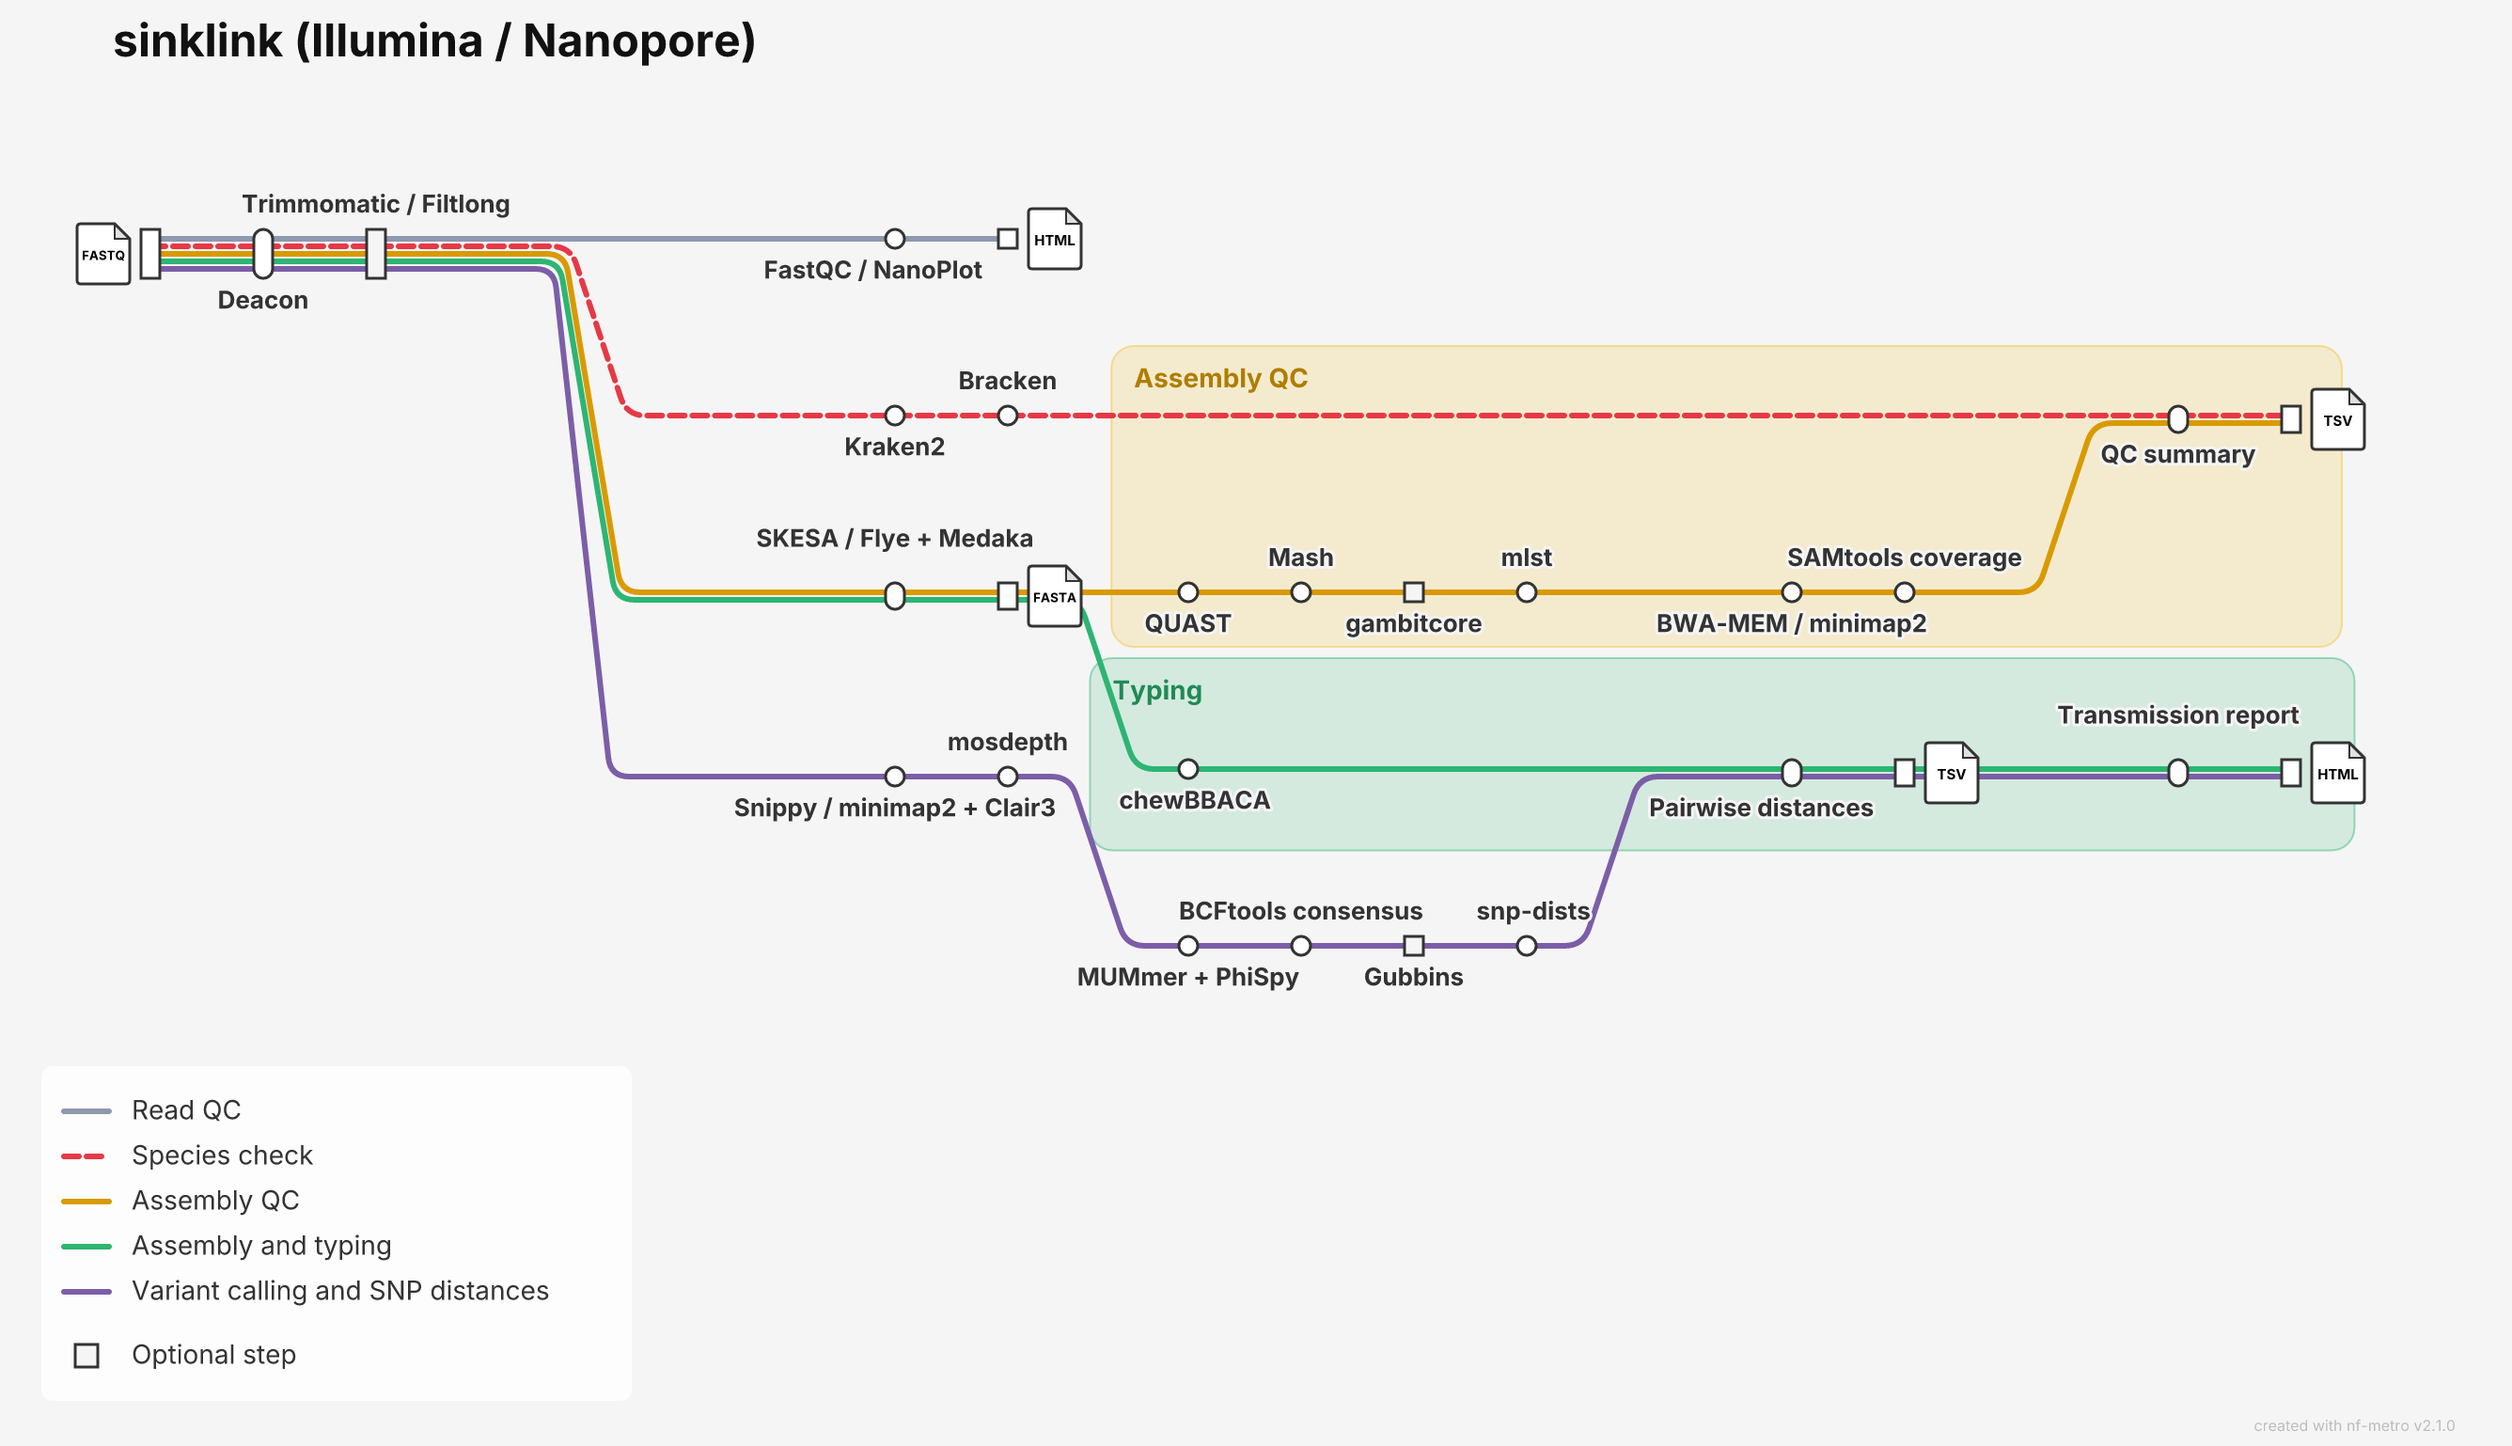
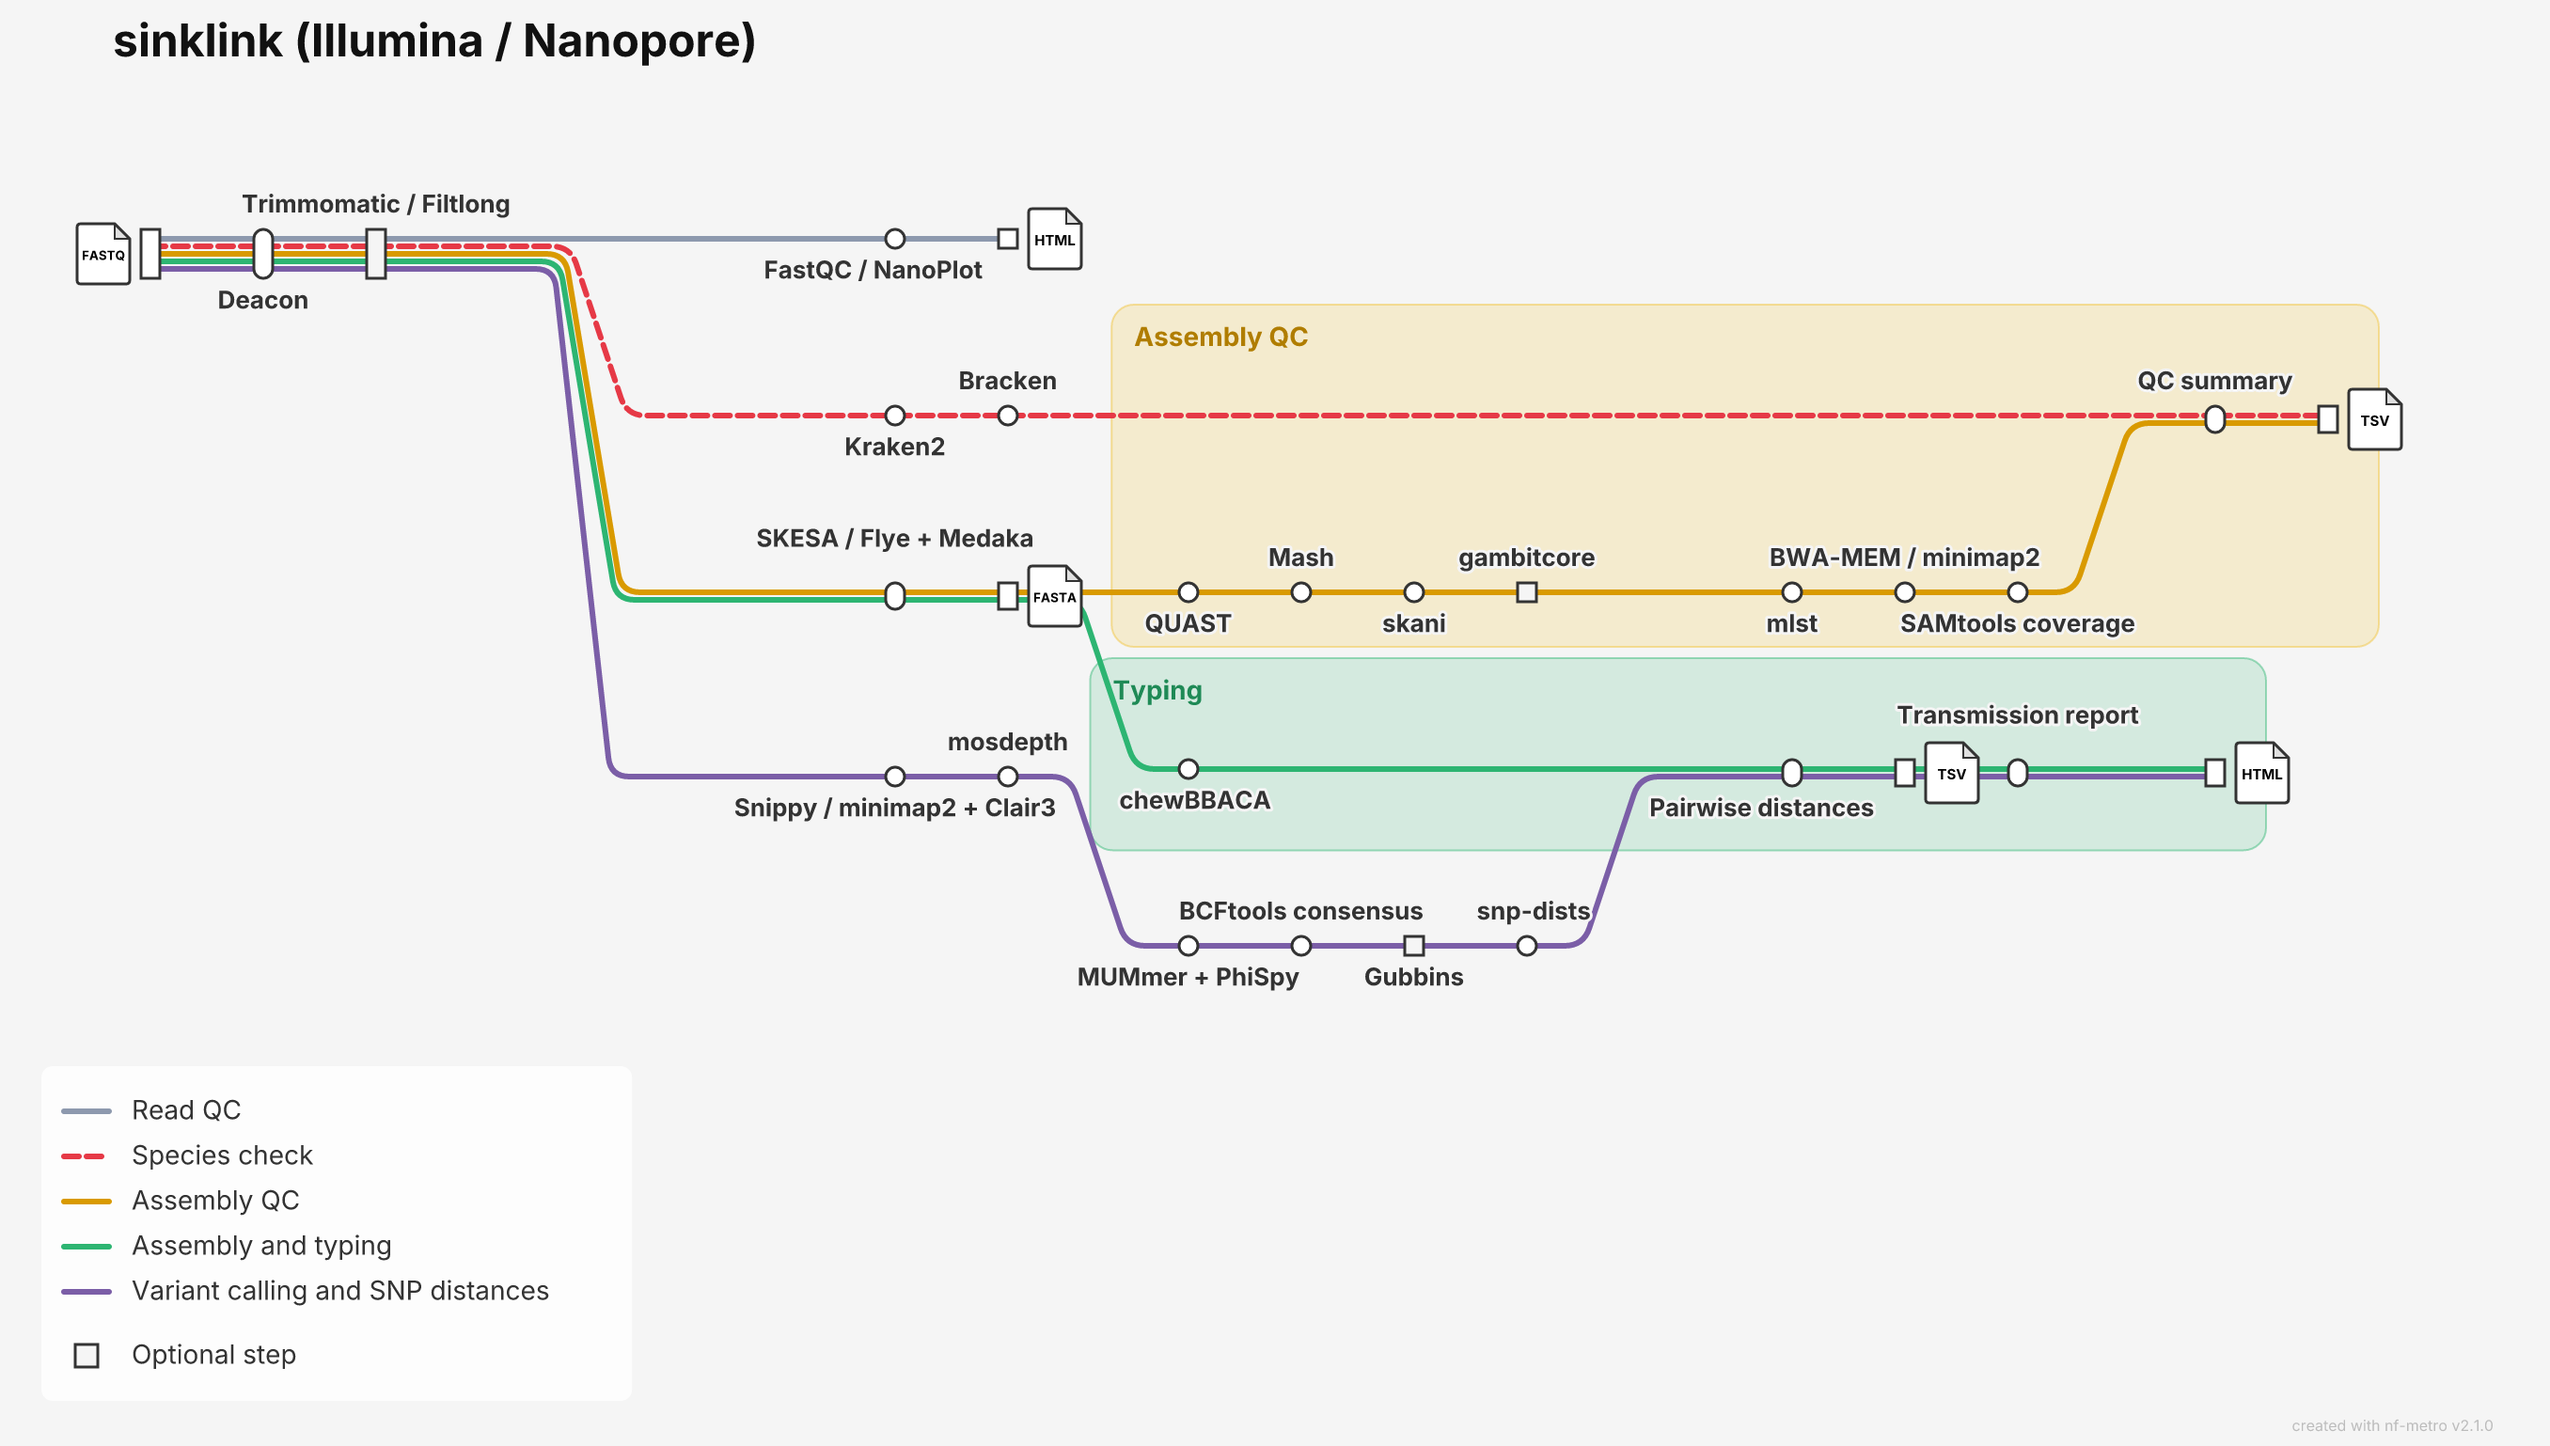
Add skani to the assembly QC track of the metro map

diff --git a/docs/render_metro_map.py b/docs/render_metro_map.py
@@ -30,7 +30,7 @@ BLOCKS = [
         "fill": "#f2c230",
         "opacity": 0.2,
         "ink": "#b07d00",
-        "stations": ["quast", "mash", "gambitcore", "mlst", "mapping", "coverage", "qc_summary", "qc_out"],
+        "stations": ["quast", "mash", "skani", "gambitcore", "mlst", "mapping", "coverage", "qc_summary", "qc_out"],
     },
     {
         "title": "Typing",

diff --git a/CHANGELOG.md b/CHANGELOG.md
@@ -16,6 +16,7 @@ and this project adheres to [Semantic Versioning](https://semver.org/spec/v2.0.0
 - For schemas with type strains, `species_mismatch` comes from the closest type strain instead of Bracken: an isolate fails unless its ANI to the type strain of a species in the schema's `species_pattern` is 95% or more; schemas without type strains keep the Bracken check
 - The `smarcescens` `species_pattern` covers the _S. marcescens_ complex species with a type strain (_S. ureilytica_, _S. sarumanii_, _S. bockelmannii_, _S. nevei_ and _S. montpellierensis_ added)
 - `smaltophilia` allele distances, missing loci and novel alleles count only the 1,275 core loci, as in the paper's d10 threshold, instead of every wgMLST locus called in both isolates, and isolates with fewer than 90% of them called fail with `low_calls`
+- The metro map shows skani on the assembly QC track
 - `many_contigs`, `low_n50` and `genome_size` fail instead of warn, and `contamination` warns instead of failing
 
 ## v0.5.0 - 2026-11-18
